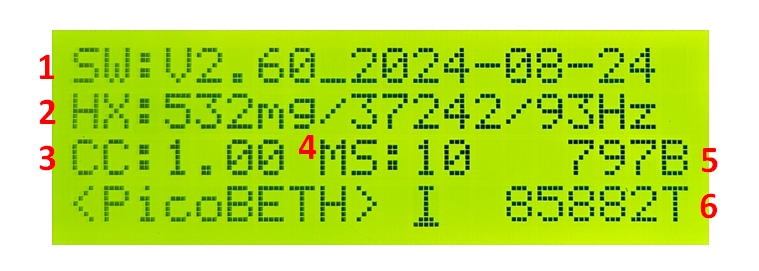
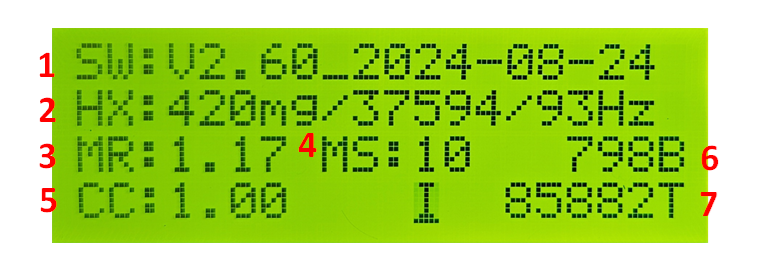
update readme

diff --git a/README.md b/README.md
@@ -154,10 +154,11 @@ The following demonstrates the user interface of version V2.60.
 
 1. Software Version and Date
 2. HX711 Tension Amplifier Info - Drift Value/Tension Baseline Value/RATE Hz
-3. Tension Parameters
-4. Stepper Motor Speed
-5. Boot Count
-6. Total Tension Count
+3. The movement speed of the clamp head, the higher it is, the faster it goes.
+4. Stepper motor speed, the lower it is, the faster it goes.
+5. Tension Parameters
+6. Boot Count
+7. Total Tension Count
 
 ![img_sysinfo](docs/img_sysinfo.png)
 
